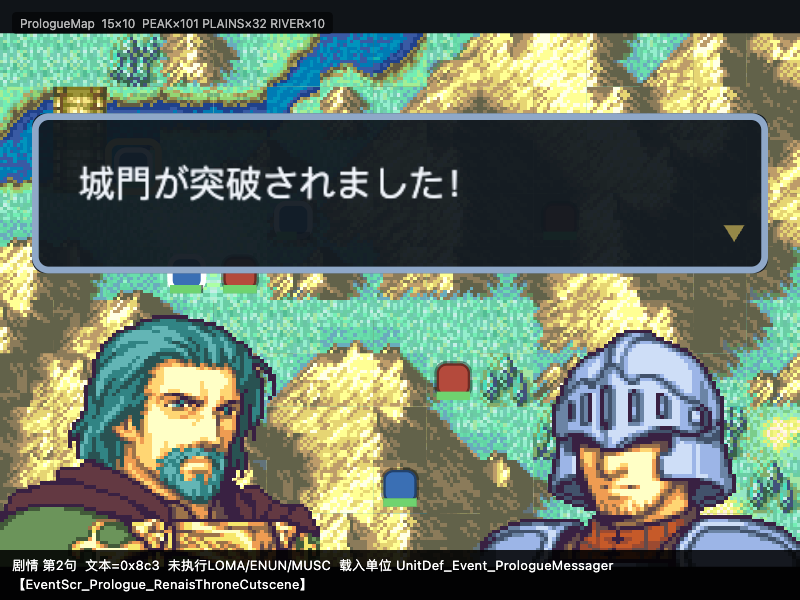
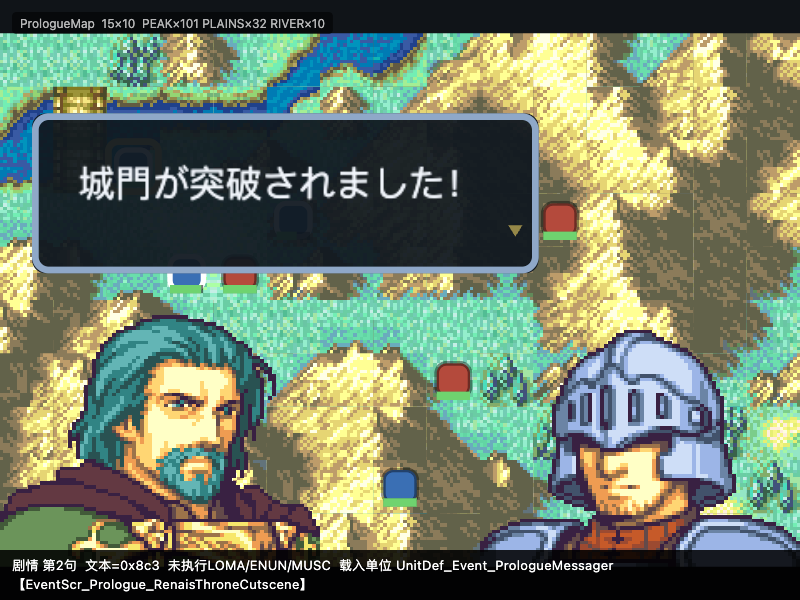
气泡宽度随文字自适应（原作是变宽的，不是固定 92%）
## 出处

* `src/TalkInterpret.c:40-43`：`activeWidth = 2 + Div(GetStrTalkLen(str, ...) + 7, 8)`
* `src/scene_080087A4.c:23-43`（`StartTalkOpen`）：`proc->unk68 = activeWidth`
* `src/scene_080081A0.c:99-155`（`PutTalkBubble`）：用 activeWidth 算气泡 x 与宽

**「2 + ceil(像素宽/8)」单位是图块**：左右各留 1 图块内边距，中间放文字。

## ★ 单位搞错了一次，截图一眼可见

`GetStrTalkLen` 返回的是**像素**（`src/sub_8008A40.c:244`
`currentLineLen += chrLen`，`chrLen` 来自 `GetCharTextLen`），
调用方再 `Div(x + 7, 8)` 转图块。

我第一版把**字符数**当成了像素 → 11 个全角字只算出 5 图块 = 40px，
**文字被裁成「城門が突破さ」**。

改成像素模型（FE 字体 12px 高：全角 12px、半角 6px）后正确：
11 个全角字 = 132px → `2 + ceil(132/8)` = 19 图块 = 152px。

## 验证

`ci.sh` 27 项全绿；截图确认气泡贴合文字长度、箭头在右下角。

## 仍未做

气泡尾巴（`PutTalkBubbleTail`，在 y=72..88 指向说话人）、
`[Yes]`/`[No]` 选择菜单（17/4 处）、同时画 >2 张脸
（原作 8 槽，14.5% 的页可见 ≥3 张）、嘴型/眨眼/表情、`[SendToBack]` 层序。

Changed region(s): [[0.625, 0.18, 0.9688, 0.48]]

diff --git a/lib/game/scene_view.dart b/lib/game/scene_view.dart
@@ -185,7 +185,20 @@ class SceneView {
     // 我原来是"固定 92% 宽、y=0.56..0.84 的方框" —— 位置和形状都不对。
     final boxH = virtualSize.y * (48 / 160);          // 6 图块 = 48px
     final boxY = virtualSize.y * (24 / 160);          // y = 3 图块 = 24px
-    final boxW = virtualSize.x * 0.92;
+
+    // ⚠ 宽度**随这一页文字长度变化**，不是固定 92%。
+    //
+    // `src/scene_080087A4.c:23-43`（`StartTalkOpen`）：
+    //     proc->unk68 = activeWidth;
+    // 而 `activeWidth = 2 + Div(GetStrTalkLen(str, ...) + 7, 8)`
+    // （`src/TalkInterpret.c:40-43`，**单位是图块**）。
+    // `src/scene_080081A0.c:99-155`（`PutTalkBubble`）用它算气泡的 x 与宽。
+    //
+    // 「2 + ceil(行长/8)」= 左右各留 1 图块内边距，中间放文字。
+    // 每行最多 8 图块 = 64px（`xText = x + 1`，`src/scene_080081A0.c:163`）。
+    final linePx = _maxLinePx(text);
+    final boxTiles = (2 + ((linePx + 7) ~/ 8)).clamp(6, 28).toDouble();
+    final boxW = virtualSize.x * (boxTiles * 8 / 240);
     _box = DialogueBoxComponent(
       text: text,
       hostFaceId: hostFace,
@@ -199,6 +212,30 @@ class SceneView {
   }
 
   Vector2 _screenSize = Vector2.zero();
+
+  /// 这一页最长一行的**像素宽**。
+  ///
+  /// ⚠ `GetStrTalkLen` 返回的是**像素**（`src/sub_8008A40.c:244`
+  /// `currentLineLen += chrLen`，`chrLen` 来自 `GetCharTextLen`），
+  /// 调用方再 `Div(x + 7, 8)` 转成图块。
+  ///
+  /// 我第一版把"字符数"当成了像素，于是 11 个全角字只算出 5 图块 = 40px，
+  /// **文字被裁成「城門が突破さ」**（截图一眼可见）。
+  ///
+  /// FE 的字体是 12px 高：全角 12px、半角（ASCII）6px。
+  static int _maxLinePx(String text) {
+    var best = 0;
+    var cur = 0;
+    for (final rune in text.runes) {
+      if (rune == 0x0A) {
+        if (cur > best) best = cur;
+        cur = 0;
+        continue;
+      }
+      cur += rune < 0x80 ? 6 : 12;
+    }
+    return cur > best ? cur : best;
+  }
 
   /// 按槽位表同步立绘组件。
   ///
